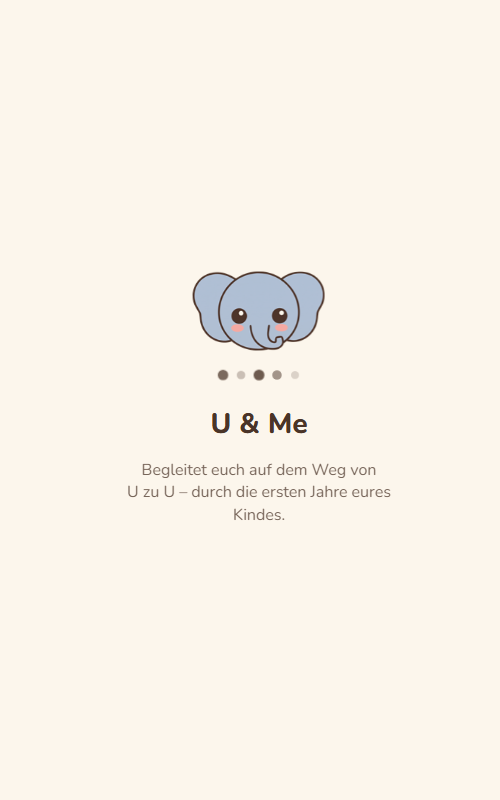
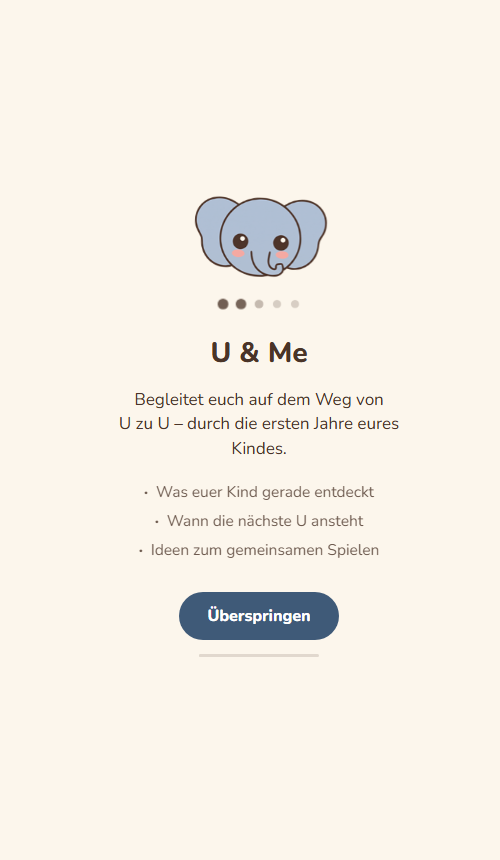
Startbildschirm: 10 Sekunden, Überspringen-Knopf, kurze Liste was die App bietet

Changed region(s): [[0.24, 0.2188, 0.81, 0.6562], [0.36, 0.6875, 0.69, 0.75]]

diff --git a/index.html b/index.html
@@ -31,19 +31,34 @@
       .start-pfad span:nth-child(4) { animation-delay: .6s; }
       .start-pfad span:nth-child(5) { animation-delay: .8s; }
       .start-name { margin: 10px 0 0; font-size: 28px; font-weight: 800; }
-      .start-info { margin: 0; max-width: 280px; font-size: 16px; line-height: 1.4; opacity: .75; }
+      .start-info { margin: 0; max-width: 300px; font-size: 17px; line-height: 1.45; }
+      .start-liste { margin: 6px 0 0; padding: 0; list-style: none; display: flex; flex-direction: column; gap: 8px; font-size: 15.5px; line-height: 1.35; opacity: .8; }
+      .start-liste li::before { content: "·"; margin-right: 8px; font-weight: 800; }
+      .start-los { margin-top: 18px; min-height: 48px; padding: 12px 28px; border: 0; border-radius: 999px; background: #3F5A78; color: #FFFFFF; font: inherit; font-size: 16px; font-weight: 800; cursor: pointer; }
+      [data-theme="dunkel"] .start-los { background: #AFC0D4; color: #141D2B; }
+      .start-zeit { width: 120px; height: 3px; border-radius: 2px; background: currentColor; opacity: .15; overflow: hidden; }
+      .start-zeit span { display: block; height: 100%; width: 100%; background: currentColor; transform-origin: left; animation: start-ablauf 10s linear forwards; }
+      @keyframes start-ablauf { from { transform: scaleX(1); } to { transform: scaleX(0); } }
       @keyframes start-wippen { 0%, 100% { transform: translateY(0) rotate(-3deg); } 50% { transform: translateY(-6px) rotate(3deg); } }
       @keyframes start-schritt { 0%, 100% { opacity: .18; transform: scale(1); } 30% { opacity: .8; transform: scale(1.35); } }
-      @media (prefers-reduced-motion: reduce) { .start-logo, .start-pfad span { animation: none; } }
+      @media (prefers-reduced-motion: reduce) { .start-logo, .start-pfad span, .start-zeit span { animation: none; } }
     </style>
   </head>
   <body>
-    <div id="start" role="status" aria-label="U &amp; Me wird geladen">
+    <section id="start" aria-label="Willkommen bei U &amp; Me">
       <img class="start-logo" src="/icons/elefant-logo.png" alt="" />
       <div class="start-pfad" aria-hidden="true"><span></span><span></span><span></span><span></span><span></span></div>
       <p class="start-name">U &amp; Me</p>
       <p class="start-info">Begleitet euch auf dem Weg von U&nbsp;zu&nbsp;U – durch die ersten Jahre eures Kindes.</p>
-    </div>
+      <ul class="start-liste">
+        <li>Was euer Kind gerade entdeckt</li>
+        <li>Wann die nächste U ansteht</li>
+        <li>Ideen zum gemeinsamen Spielen</li>
+      </ul>
+      <!-- onclick direkt hier, damit der Knopf schon funktioniert, bevor die App geladen ist -->
+      <button type="button" class="start-los" onclick="var s = document.getElementById('start'); s.classList.add('weg'); setTimeout(function () { s.remove(); }, 400);">Überspringen</button>
+      <div class="start-zeit" aria-hidden="true"><span></span></div>
+    </section>
     <div id="root"></div>
     <script type="module" src="/src/main.tsx"></script>
   </body>

diff --git a/src/main.tsx b/src/main.tsx
@@ -33,13 +33,13 @@ createRoot(document.getElementById('root')!).render(
   </StrictMode>,
 );
 
-// Startbildschirm aus index.html ausblenden – mindestens ~1 Sekunde sichtbar, damit er nicht nur aufblitzt
-const MINDESTENS_MS = 1100;
+// Startbildschirm aus index.html: bleibt 10 Sekunden, „Überspringen“ blendet ihn sofort aus (onclick in index.html)
+const ANZEIGE_MS = 10_000;
 const start = document.getElementById('start');
 if (start) {
   window.setTimeout(() => {
     start.classList.add('weg');
-    start.addEventListener('transitionend', () => start.remove(), { once: true });
-    window.setTimeout(() => start.remove(), 600); // falls kein transitionend kommt
-  }, Math.max(0, MINDESTENS_MS - performance.now()));
+    window.setTimeout(() => start.remove(), 400); // nach dem Ausblenden (0,35 s)
+  }, Math.max(0, ANZEIGE_MS - performance.now()));
+  start.querySelector('button')?.focus();
 }
